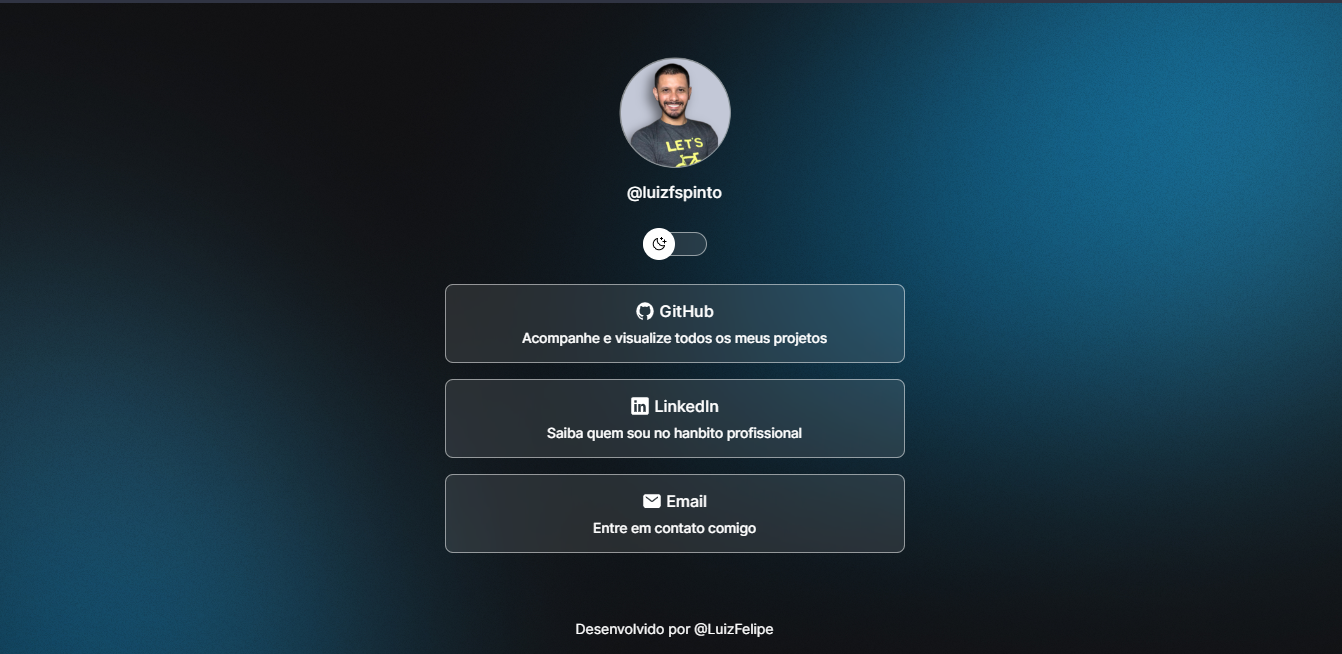
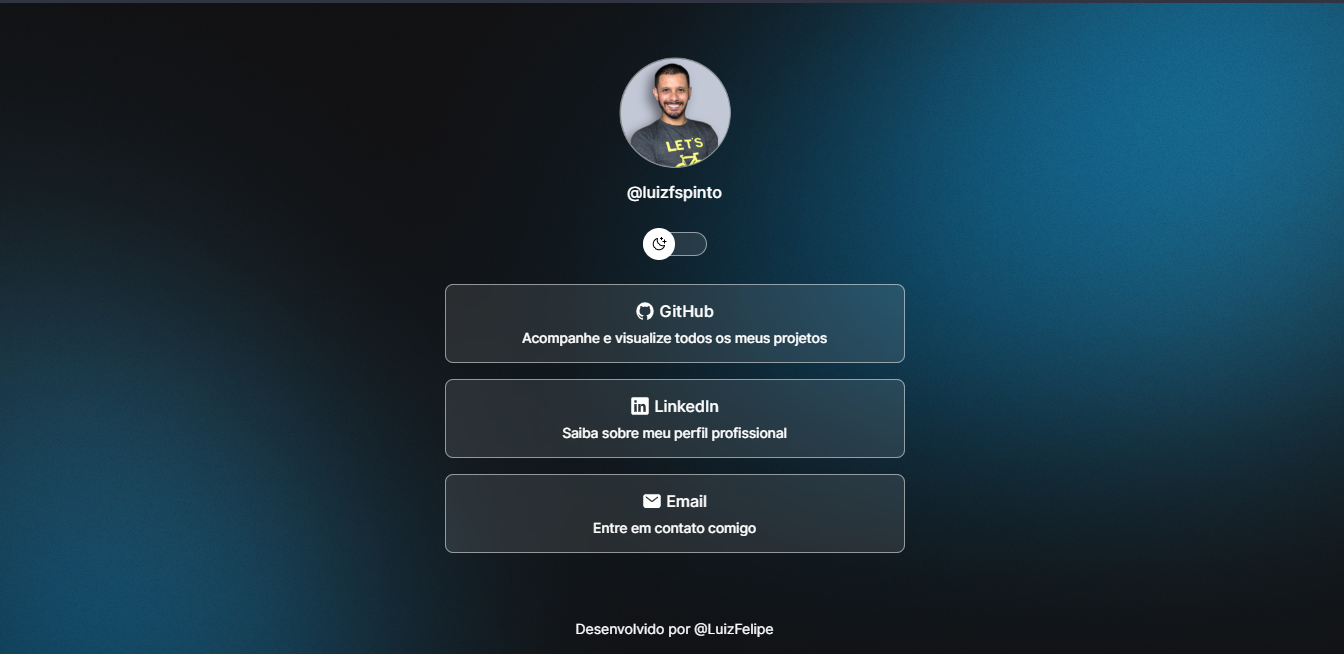
update project

diff --git a/index.html b/index.html
@@ -38,7 +38,7 @@
         <li>
           <a href="https://www.linkedin.com/in/luizfspinto/" target="_blank">
             <ion-icon name="logo-linkedin"></ion-icon>
-            LinkedIn<p class="paragraph">Saiba quem sou no hanbito profissional</p>
+            LinkedIn<p class="paragraph">Saiba sobre meu perfil profissional</p>
           </a>
         </li>
         <li>
